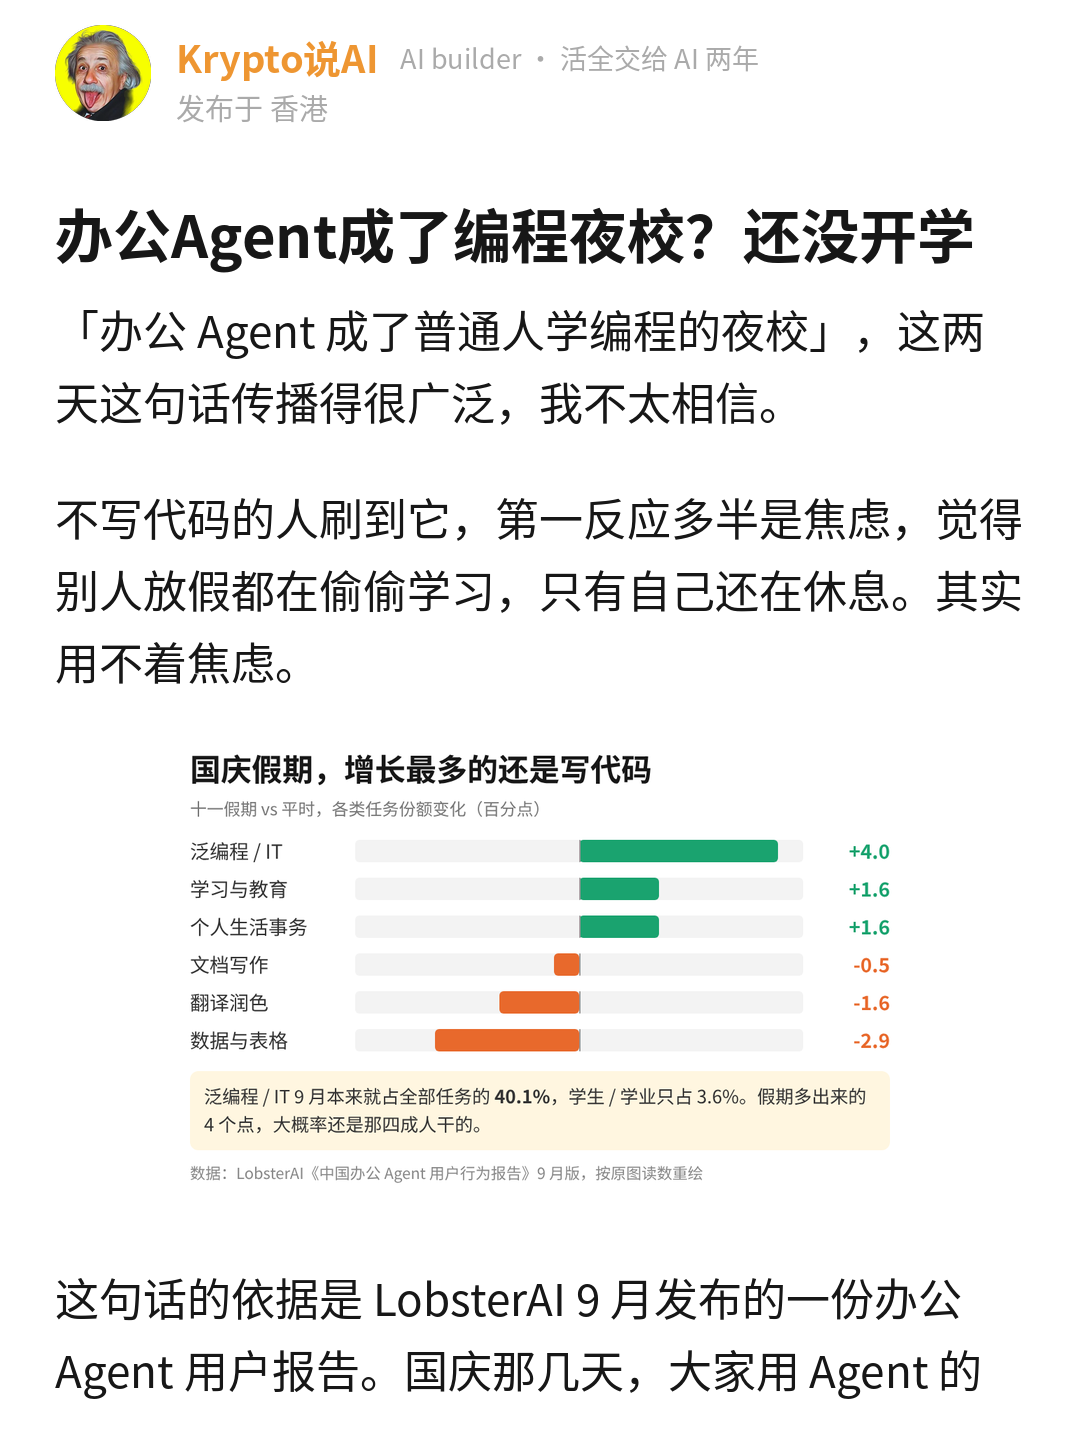
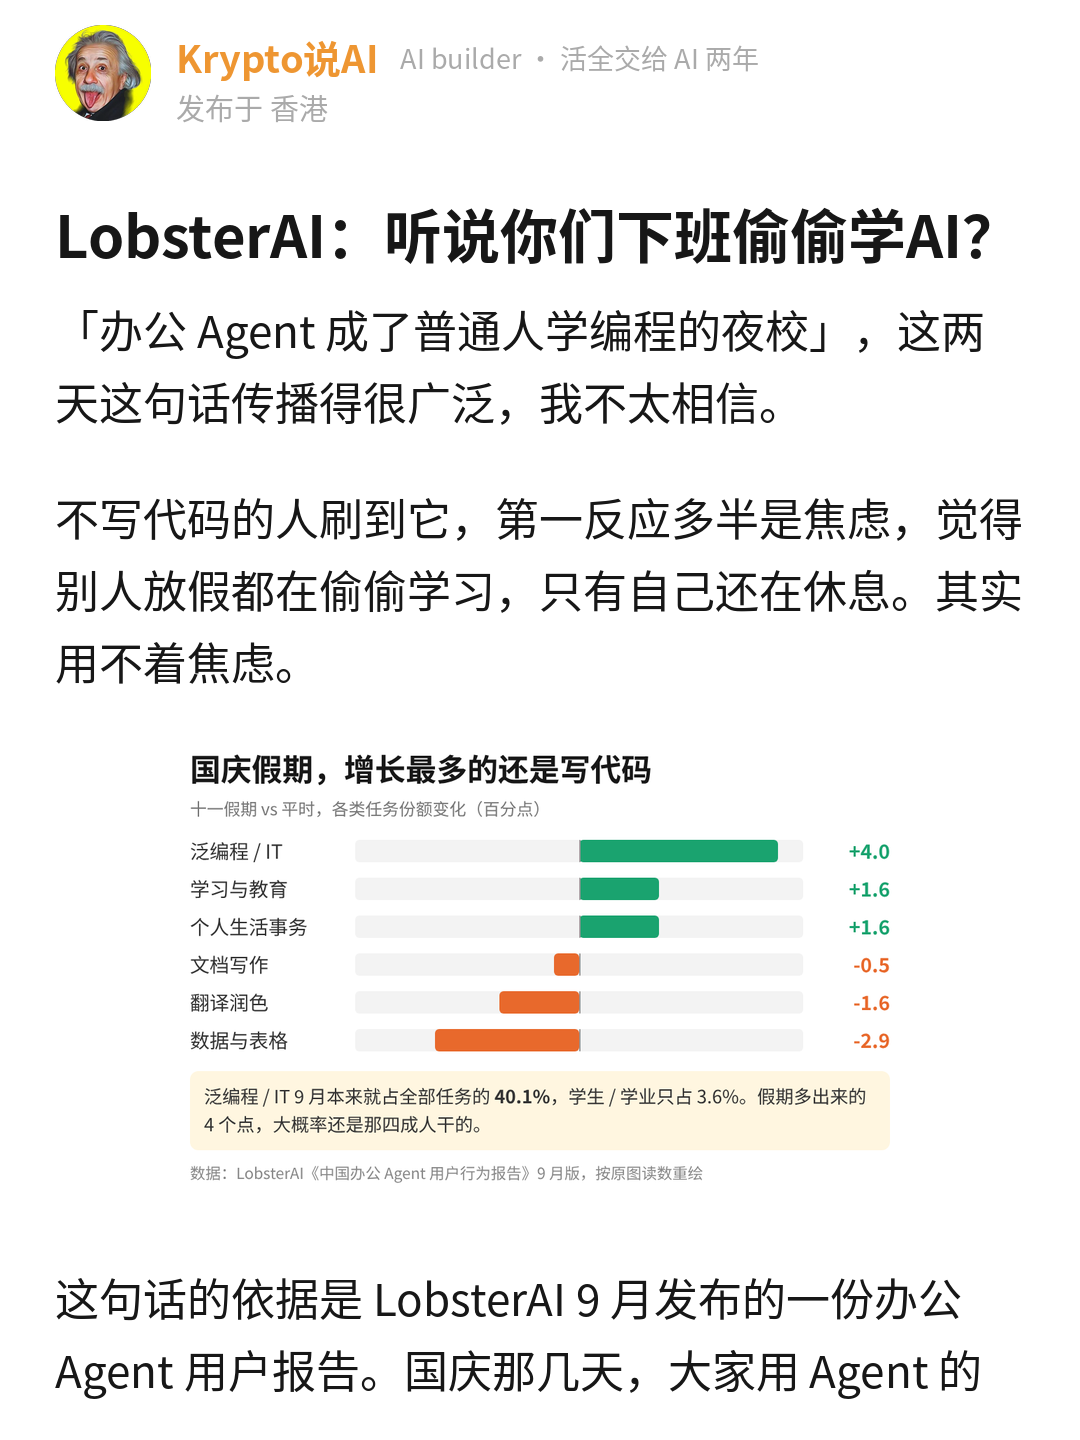
LobsterAI 稿标题改成情绪 + 名字（用户定）
Claude-Session: https://claude.ai/code/session_01Nd9vVrWfMU8UJJuz89b5Ky

Changed region(s): [[0.0306, 0.125, 0.9167, 0.1875]]

diff --git a/CLAUDE.md b/CLAUDE.md
@@ -3,7 +3,7 @@
 这个仓库是小红书账号 **Krypto说AI** 的工作区，也是它的记忆。在这里做的每一篇稿子，先读本页，再读 `账号/档案.md`、`账号/经历库.md` 和 `账号/爆文方法论.md`（10-14 起，选题 / 标题 / 首图 / 原文跟发的发前清单，交付时逐条写过没过）。每次用户说了新的经历、新的观点、新的规则，写回这两份文件并更新本页摘要，不要只留在对话里。
 
 ## 摘要
-- **10-19 LobsterAI 办公 Agent 报告稿（meme，观察，价值框架，立场 C，排 10-21 18:00，初稿待用户看）**：素材是 LobsterAI《中国办公 Agent 用户行为报告》9 月版长图（只有 227px 宽，原图待用户补）+ 铁锤人 @lxfater 10-19 推特 thread。stance 反对 thread 原句「还变成新一代普通人学编程的夜校」：假期晚上写代码的还是原来会写的人（泛编程本来占四成任务）；一个模型够不够看交出去几种活。用户回答进经历库 #27（美股宏观监控、高尔夫动作教练都用 Claude Code 做；没看过缓存）#28（开始用 WorkBuddy 做微信生态）、观点库 #25。thread 把 V4.1 Flash / V4 Flash 的缓存数串了，「牛来营销」是他的推测，稿里都没用。「微信」被 meme_check 判站外导流，稿里写「腾讯生态」
+- **10-19 LobsterAI 办公 Agent 报告稿（meme，观察，价值框架，立场 C，排 10-21 18:00，初稿待用户看）**：素材是 LobsterAI《中国办公 Agent 用户行为报告》9 月版长图（只有 227px 宽，原图待用户补）+ 铁锤人 @lxfater 10-19 推特 thread。stance 反对 thread 原句「还变成新一代普通人学编程的夜校」：假期晚上写代码的还是原来会写的人（泛编程本来占四成任务）；一个模型够不够看交出去几种活。用户回答进经历库 #27（美股宏观监控、高尔夫动作教练都用 Claude Code 做；没看过缓存）#28（开始用 WorkBuddy 做微信生态）、观点库 #25。thread 把 V4.1 Flash / V4 Flash 的缓存数串了，「牛来营销」是他的推测，稿里都没用。「微信」被 meme_check 判站外导流，稿里写「腾讯生态」。标题用户 10-19 改成情绪 + 名字：首页 headline「LobsterAI：听说你们下班偷偷学AI？」，标题.txt 压到 20 字「LobsterAI：听说你下班偷学AI？」，主关键词改 LobsterAI
 - **10-18 晚 对标 Echo note 回响阅览室，学了三样（用户定「写进 skills」，`对标/Echo note回响阅览室/拆解.md`）**：用户说稿子「像转述、没有个人 IP」。Echo 做海外播客精读，素材全是别人的却不像搬运，靠首尾一个「我」的框。写进 meme-xhs SKILL + writing_guide 6.10、own-xhs、爆文方法论发前清单 2.6：① 首页「我最想说的一件事是：（stance）」，用户真改变过看法才写「改观」；② 紧跟点名读者 + 承诺；③ 结尾「以前 / 现在」（用户真实变化）+ 两类读者各一句。不进 meme_check，验证稿待 3 篇（Anthropic 就业稿 10-18 19:15 实际发出去的是试三样之前的版本，不算，下一篇起算）。节尾加粗对仗金句不学（10-02 被认出 AI 的句式）；标题用「情绪 + 人名 / 模型名 / 信源」（用户 10-18 晚定，如「强烈推荐看看Anthropic就业报告。」），不写只有情绪没名字的，备选三条至少一条用这种
 - **10-18 用户定：人设 + 搜索，改进 skill（验证稿待 3 篇）**：平台诊断「强内容弱人设、博主像搬运工、缺持续价值观输出」+「搜索为零、标题前置人名 / 模型名 / 场景词」。改了：① `stance` 所有文体重新必填（撤回 10-06 可选），retell 稿结尾前一段 150–300 字「我」的独家判断、结尾停在我的判断上、「我」上限 6 → 10；② 新增 `stance_line` 必填，回到 `账号/档案.md` 新加的「长期立场」A / B / C / D（AI 取代不做判断的人 / 活整个交给 AI 短板是我 / 稳定听话比惊艳值钱 / 角色边界消失人拍板），写稿前先问加第 ⑤ 问、own 三问加第 4 问；③ render_meme 每页账号名右边一行灰字 slogan「AI builder · 活全交给 AI 两年」（`slogan: off` 关）。**四条立场和 slogan 用户 10-18 确认不改**；④ 可搜词放标题前 6 字（meme_check 超 6 字 ⚠、没有 ✗），中文人名开头放开，前提它就是 keyword（「扎克伯格：……」搜索 3.6% 账号最高），不是 keyword 的专名开头从 ✗ 降 ⚠。改在 meme-xhs SKILL / writing_guide 1.5、6.8、8、8.5 / meme_check / render_meme、own-xhs SKILL + questions、爆文方法论（新「三点五 人设」节、发前清单 2 和 2.5）。按 10-18 回看的规矩这算一撤一加：撤「stance 可选」「retell 结尾一句认同」「专名开头 ✗」，加 stance_line 和前 6 字
 - **10-18 Skills 改动回看**（`复盘/2026-10-18_Skills改动回看_哪些有效哪些没用.md`）：一个月 30 多次改动按改输入 / 改选题 / 改输出分开看。改输入 2 次（写稿前先问、own 三问）后面跟着 2 个爆款；改选题 4 次 2 正 1 负；改输出 20 多次（黑名单、口吻、流畅度、双字动词、每节配图、终稿重写、qualia）0 条被数据证实，qualia 当天回退，10-14 到 10-16 三天三个大改之后 5 篇留人 0 比 4。唯一稳定有效的输出规则是 10-02 的社会证明标题。「骨架是文章就停」会拦掉 Anthropic 爆款，已改两道门槛；「人物稿优先」导致一周连发三篇转述、粉丝停留反降。建议（待用户定）：输出规则只撤不加、每条新规则绑 3 篇稿再定、发布清单复制进标题.txt、终稿重写等 SayType 数据再扩散
